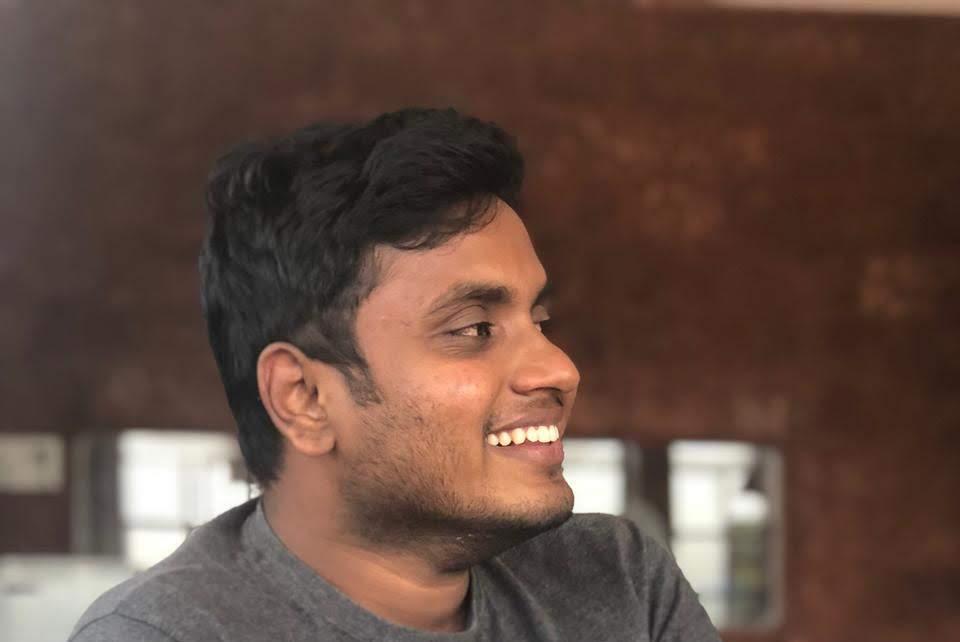
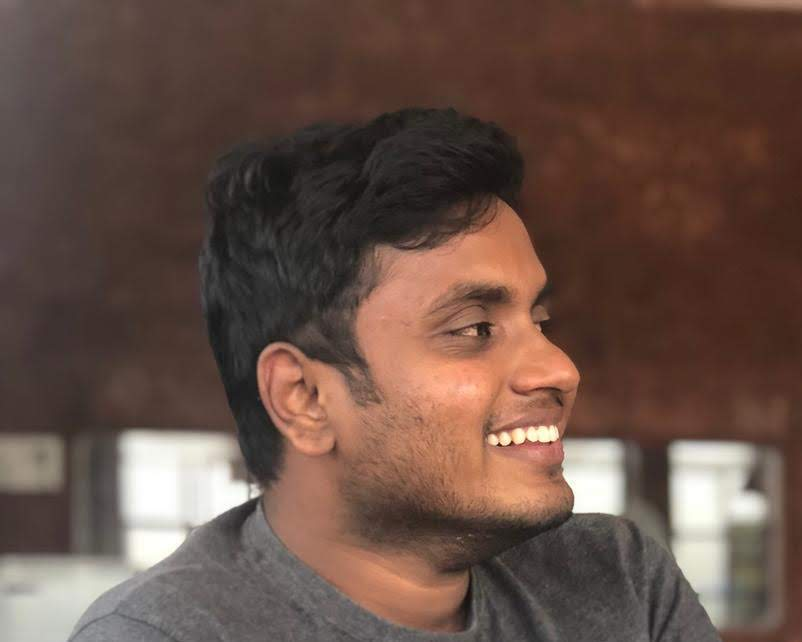
few changes in bg image

diff --git a/index.html b/index.html
@@ -81,7 +81,6 @@
 		<div class="intro-content">
 			<div class="row">
 				<div class="col-twelve">
-					<h5 class="new-font">I am</h5>
 					<h1 class="new-font">DANIEL JAMES</h1>
 					<p class="new-font intro-position">
 						<span><a class="smoothscroll" href="#developer" style="color: white;">Developer</a></span>
@@ -89,7 +88,7 @@
 						<span><a class="smoothscroll" href="#traveller" style="color: white;">Gallivanter</a></span>
 						<span><a class="smoothscroll" href="#gamer" style="color: white;">Gamer</a></span>
 					</p>
-					<a class="new-font button stroke smoothscroll" href="#about" title="">More About Me</a>
+					<!-- <a class="new-font button stroke smoothscroll" href="#about" title="">More About Me</a> -->
 				</div>
 			</div>
 		</div>

diff --git a/css/main.css b/css/main.css
@@ -1323,11 +1323,16 @@ header .logo a {
  * ------------------------------------------------------------------- 
  */
 #intro {
-	background: #151515 url(../images/intro-bg.jpg) no-repeat center bottom;
+	/* background:   center bottom; */
+	background-color: #151515;
+	background-image: url(../images/intro-bg.jpg);
+	background-repeat: no-repeat;
+	background-position: center;
+	background-origin: bottom;
 	-webkit-background-size: cover;
+	-o-background-size: cover;
 	-moz-background-size: cover;
 	background-size: cover;
-	background-attachment: fixed;
 	width: 100%;
 	height: 100%;
 	min-height: 720px;
